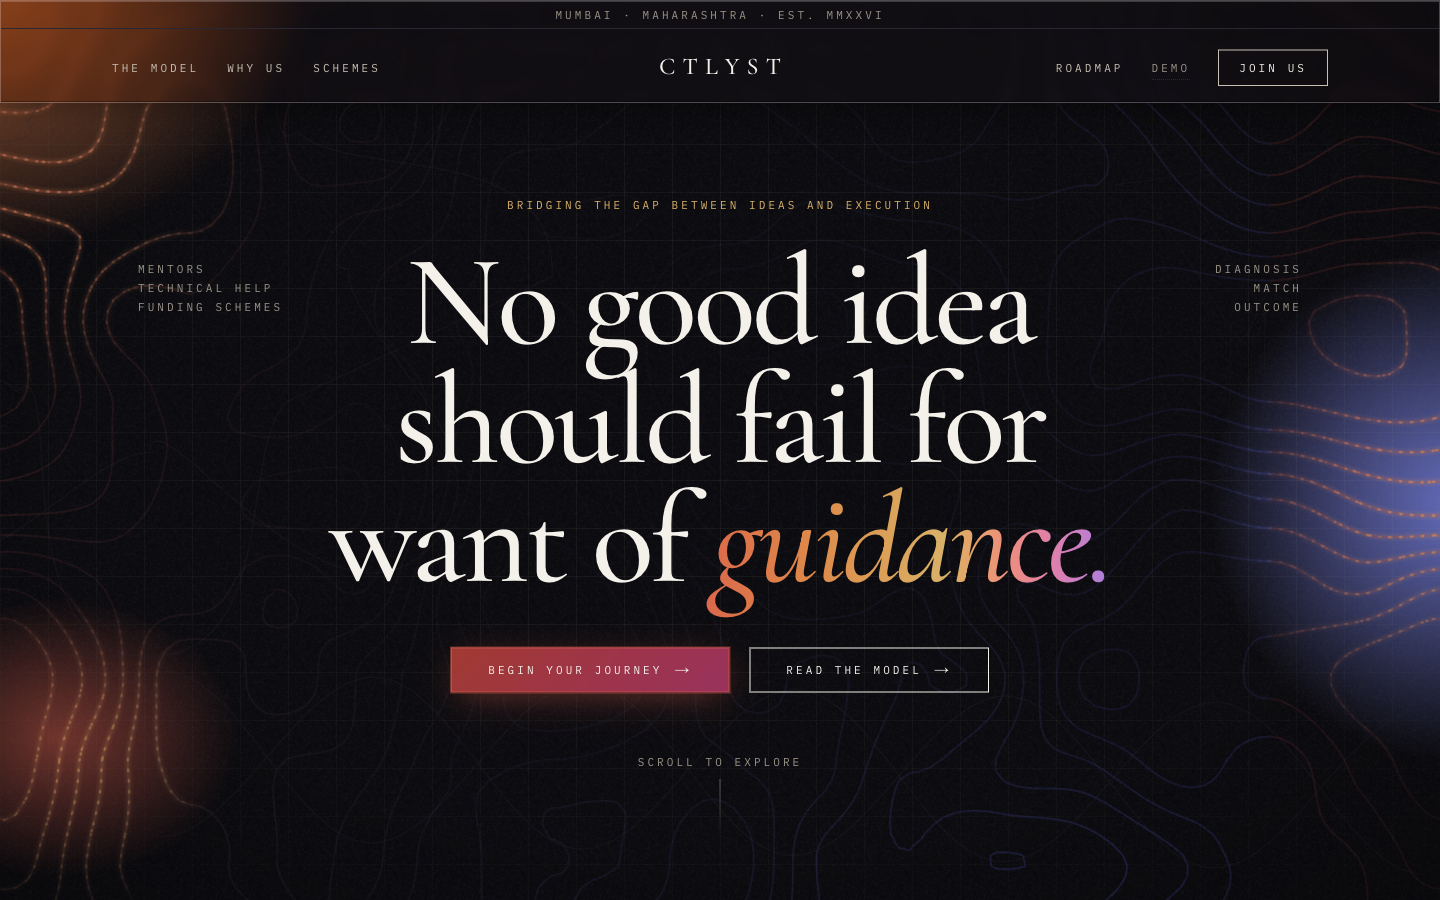
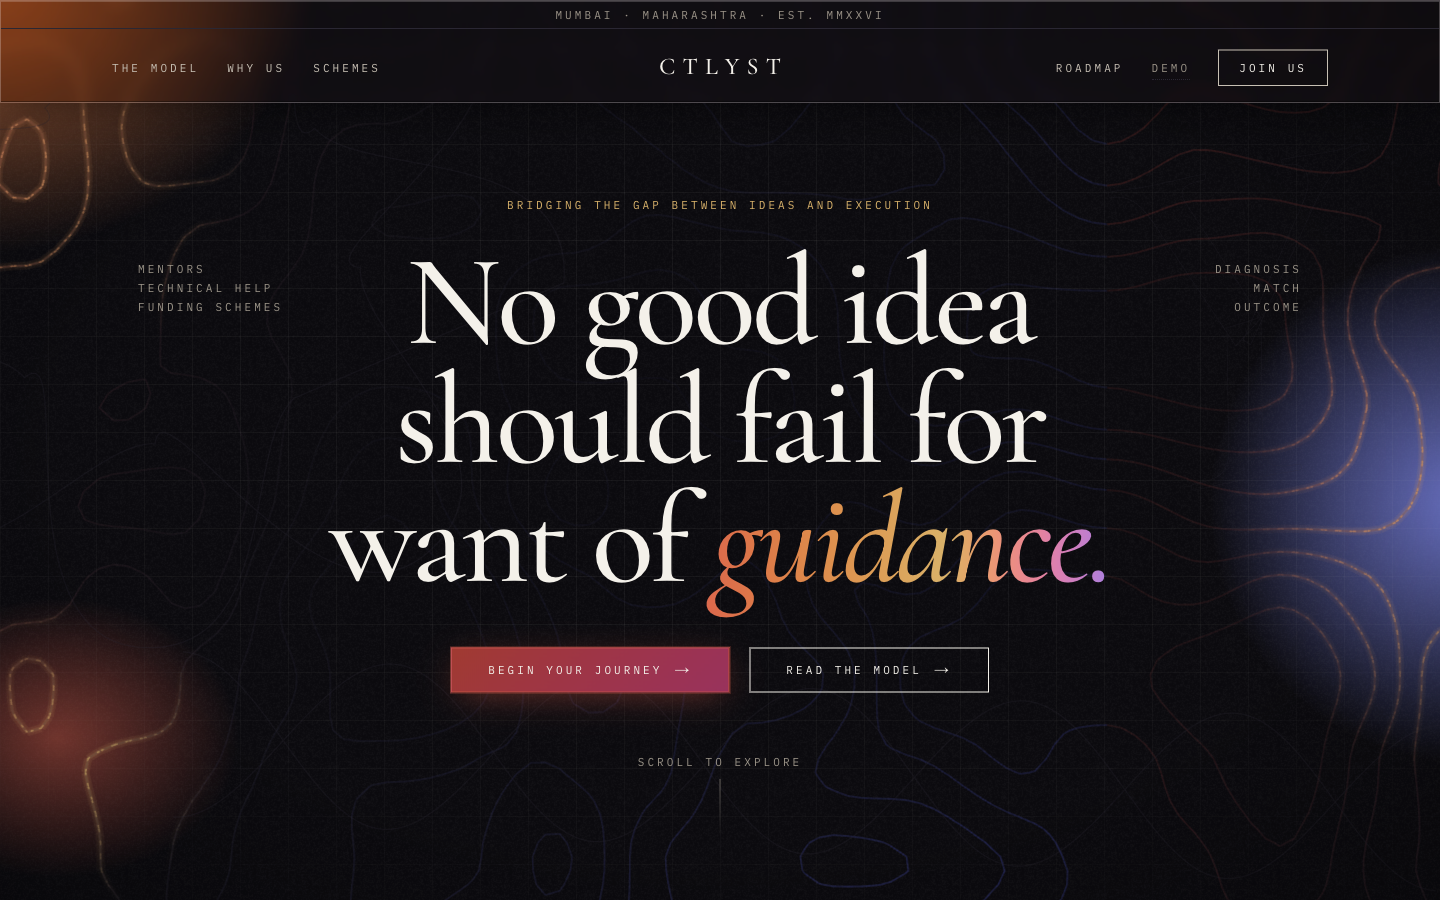
Pay for the glow out of the frame budget
The lit passes were costing 57,216 stroke segments re-rasterised every frame of
the pan, 28,608 of them dashed. A transform on an SVG group repaints rather than
composites, so every segment is paid for on every frame, and dashing is the
most expensive stroke Skia has. rAF could not see any of it — it read 16.7ms
flat with the layers hidden, because the cost is on the raster thread.

Coarser field and one fewer glow pass: 24,240 a frame, 8,080 dashed. That is
below what the page was doing before the glow work started. The contours read
slightly rounder and the dust pass is gone; the beading it carried is now the
core's job, with the gap opened up to compensate.

Two attempts to move the pan onto the compositor instead are recorded in Scars.
Both composited the ambient stack above main and rendered a blank page.

Claude-Session: https://claude.ai/code/session_01MvrFiEam1BA8n8oi2rAs78

diff --git a/lib/topo.ts b/lib/topo.ts
@@ -8,8 +8,18 @@
  * which is both cheaper than a fullscreen shader and INV-3-clean.
  *
  * Marching squares, segments left unjoined: joining them into polylines is a
- * chunk of bookkeeping that renders identically for a solid stroke. Nothing
- * dashes these, so nothing needs the continuity.
+ * chunk of bookkeeping that renders identically for a solid stroke.
+ *
+ * The lit passes DO dash these, and a dash pattern restarts at every subpath,
+ * so the beading is per-segment rather than continuous along a contour. At this
+ * segment length that reads as evenly spaced dust, which is the intent — but it
+ * is the reason the dash period is tuned against the cell size and not against
+ * the contour. Joining into polylines is the fix if the beading ever has to
+ * flow along a contour instead of sitting on it.
+ *
+ * The grid is deliberately coarse. Every segment here is re-rasterised on every
+ * frame of the pan, once per stroke pass per copy, so the sampling density is a
+ * frame-budget decision as much as a visual one — see PROGRESS Scars.
  */
 
 const SMOOTH = (t: number) => t * t * (3 - 2 * t);
@@ -70,7 +80,7 @@ export type TopoOptions = {
 
 /** One path string per contour level, outermost first. */
 export function makeTopoPaths({
-  width, height, cols = 132, rows = 92, scale = 4.0, levels = 12, seed = 7,
+  width, height, cols = 100, rows = 70, scale = 4.0, levels = 9, seed = 7,
 }: TopoOptions): string[] {
   const cw = width / cols;
   const ch = height / rows;

diff --git a/lib/atmosphere.tsx b/lib/atmosphere.tsx
@@ -34,14 +34,18 @@ const BLOOM_DISC =
 const CALM_CENTRE =
   "radial-gradient(ellipse 58% 54% at 50% 46%, rgb(0 0 0 / 0.16) 0%, rgb(0 0 0 / 0.55) 52%, #000 100%)";
 
-/** Halo, mid, core, dust — the strokes that make a contour glow without a
- *  filter. The dashed passes break the core into points, so a lit contour reads
- *  as a filament of particles rather than as a drawn line. */
+/** Halo, mid, core — the strokes that make a contour glow without a filter. The
+ *  dashed core breaks the line into points, so a lit contour reads as a filament
+ *  of particles rather than as a drawn line.
+ *
+ *  There was a fourth pass, a sparse round-cap dash for dust. It cost a whole
+ *  extra copy of the field on every frame of the pan for a sparkle you had to
+ *  look for, so the beading is carried by the core alone and the gap is opened
+ *  up to compensate. */
 const GLOW = [
-  { w: 8, o: 0.13 },
-  { w: 3, o: 0.24 },
-  { w: 1.2, o: 0.9, dash: "2 7" },
-  { w: 2.6, o: 0.85, dash: "0.5 26" },
+  { w: 8, o: 0.15 },
+  { w: 3, o: 0.26 },
+  { w: 1.6, o: 0.95, dash: "2 9" },
 ] as const;
 
 /** Where the field is allowed to light up. Everywhere else it stays dark

diff --git a/PROGRESS.md b/PROGRESS.md
@@ -966,3 +966,21 @@ Things that broke and how they were fixed. Do not repeat these.
   `absolute inset-0` div — viewport-sized, no transform, no `will-change`. Also removes
   the coordinate trap where a pole "at 4% 6%" landed at viewport −19% because the box
   started at −25% and was 1.5× scale.
+- **The contour pan is a repaint, not a composite — so segment count is a frame budget.**
+  Panning `<g data-topo-pan>` transforms an SVG group, which Chromium repaints rather
+  than compositing, so every stroke segment is re-rasterised every frame. The glow pass
+  structure quietly made that 57,216 segments/frame, 28,608 of them dashed — and dashing
+  is the most expensive thing Skia can be asked to stroke. rAF frame-time is BLIND to
+  this: it read a clean 16.7ms median in every configuration, including with layers
+  hidden, because the cost is on the raster thread. Count the geometry instead.
+  Fix: coarser field (132×92×12 → 100×70×9) and one fewer glow pass → 24,240/frame,
+  8,080 dashed. Below the 42,912 the page did before the glow work.
+- **Do not try to promote the pan to the compositor by restructuring the SVG layers.**
+  Tried twice: (a) `overflow: visible` on the svg with the pan moved to a wrapping div,
+  (b) a double-width viewBox in a 200%-wide panning div. BOTH made the whole ambient
+  stack composite above `main` — the page rendered as background only, with every
+  section still `opacity: 1` and in layout, and zero console errors. Variant (b) also
+  stopped `#topo-lines` resolving when its `<defs>` moved to a `h-0 w-0` svg. Diagnosis
+  that works: `display:none` the ambient root and screenshot — if the content appears,
+  it is a compositing problem, not a paint or opacity one. If the pan ever has to get
+  off the paint path, do it by making the field cheap enough not to need it.
